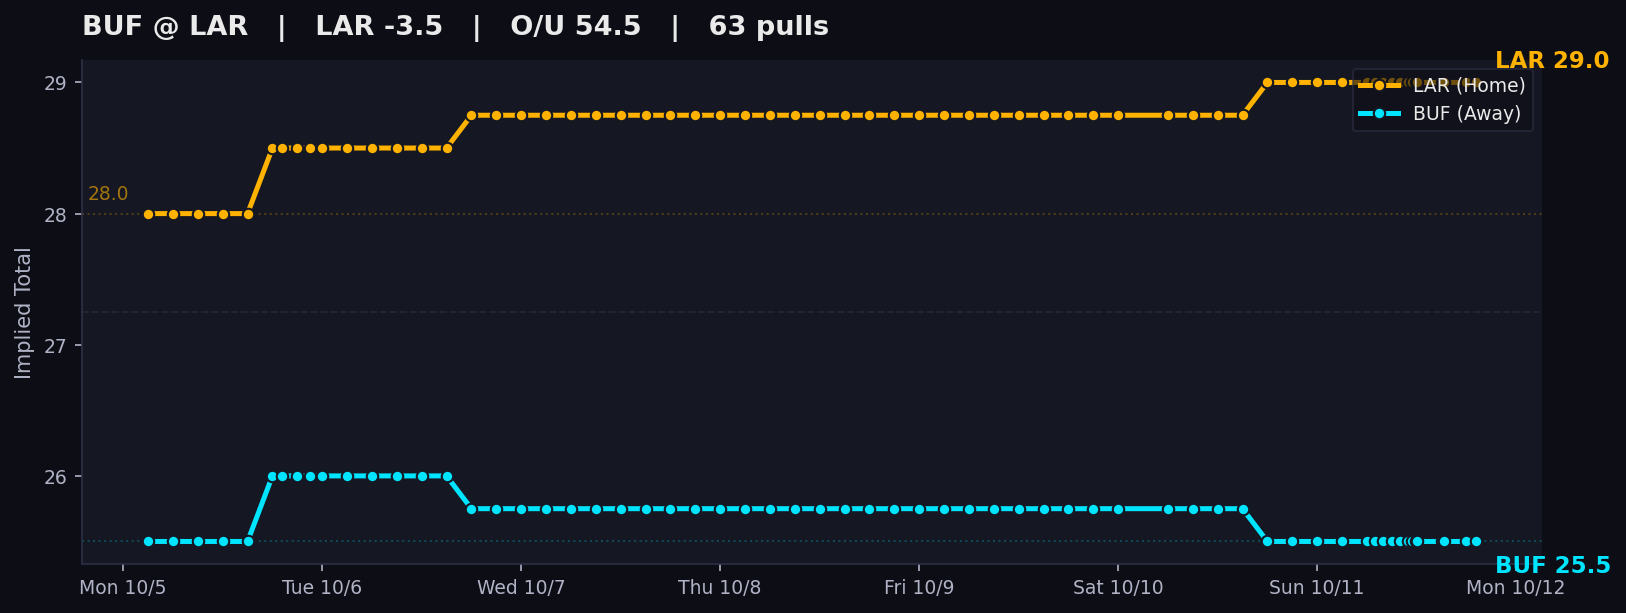
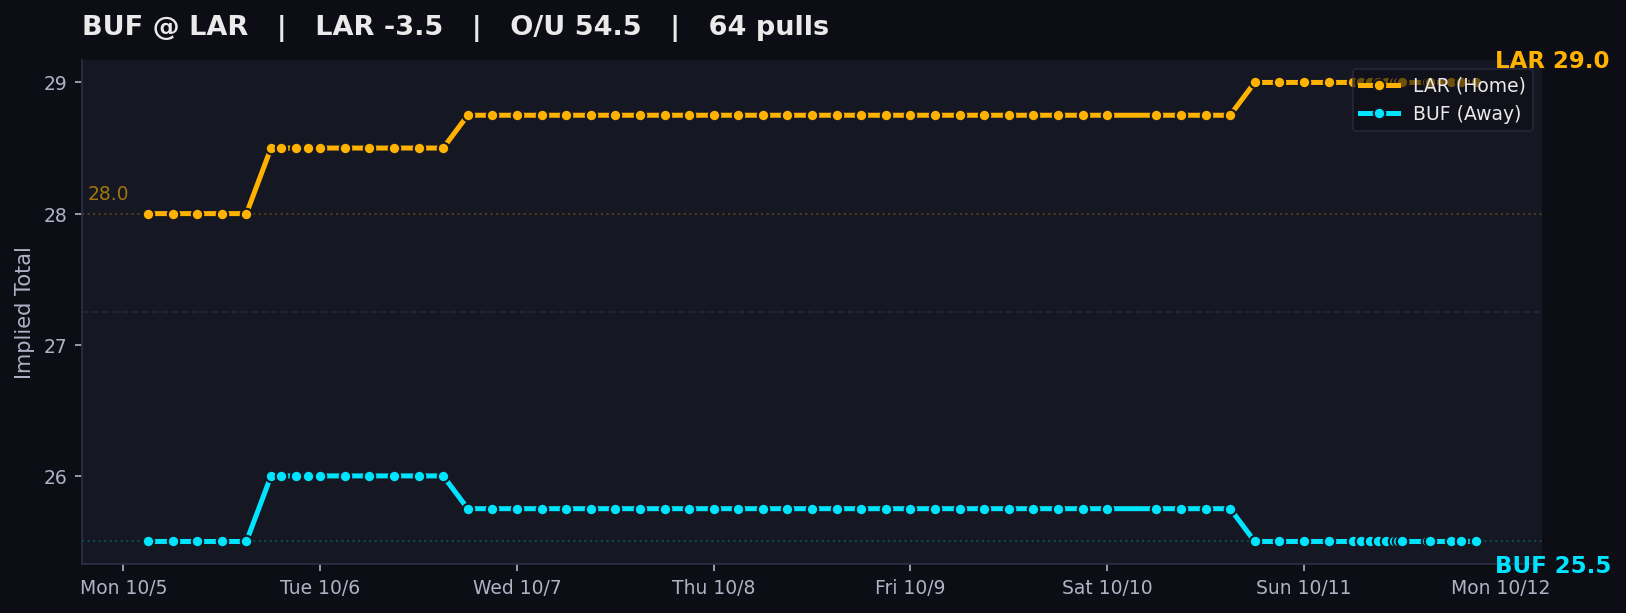
auto: local tracker sync

diff --git a/charts/index.html b/charts/index.html
@@ -311,7 +311,7 @@
     </div>
     <p class='sub'>
       DraftKings main lines &middot; Pinnacle cross-check &middot; Updated by the local Mac tracker<br>
-      Page rendered Sun Oct 11, 2026 7:10 PM CDT &middot; 1077 valid chart dots &middot; 1176 total pull attempts
+      Page rendered Sun Oct 11, 2026 9:00 PM CDT &middot; 1078 valid chart dots &middot; 1178 total pull attempts
       <span class='legend-box'>
         <span class='dot-teal'>● Away implied total</span>
         <span class='dot-amber'>● Home implied total</span>
@@ -324,9 +324,9 @@
     </details>
   </header>
 
-  <div id='feed-banner' class='alert-banner healthy' data-banner-kind='healthy' data-feed-ts='2026-10-12T00:10:00.872640+00:00' data-feed-ts-label='Sun Oct 11, 7:10 PM CDT'>
+  <div id='feed-banner' class='alert-banner healthy' data-banner-kind='healthy' data-feed-ts='2026-10-12T02:00:01.978811+00:00' data-feed-ts-label='Sun Oct 11, 9:00 PM CDT'>
             <span class='status-dot'></span>
-            <b>Feed Healthy:</b> All 2 open markets updated. 13 games have started and is showing its final verified pregame line. Board age based on oldest open market: <span id='feed-time'>Sun Oct 11, 7:10 PM CDT</span> (<span id='feed-age-dynamic'>just now</span>).
+            <b>Feed Healthy:</b> All 1 open markets updated. 14 games have started and is showing its final verified pregame line. Board age based on oldest open market: <span id='feed-time'>Sun Oct 11, 9:00 PM CDT</span> (<span id='feed-age-dynamic'>just now</span>).
         </div>
 
   <nav class='filter-bar' aria-label='Filter games by slate'>
@@ -396,7 +396,7 @@
                 <div><span>Last valid pull</span><strong>Thu 6:00 PM CT</strong></div>
                 <div><span>Chart dots</span><strong>69</strong></div>
             </div>
-                    <img class='expanded-chart' src='TB_DAL.png?v=1791763814' alt='TB at DAL line movement chart'>
+                    <img class='expanded-chart' src='TB_DAL.png?v=1791770418' alt='TB at DAL line movement chart'>
                     <p class='movement-note'>Total 47.5 → 49.5</p>
                 </div>
             </td>
@@ -437,7 +437,7 @@
                 <div><span>Last valid pull</span><strong>8:00 AM CT</strong></div>
                 <div><span>Chart dots</span><strong>71</strong></div>
             </div>
-                    <img class='expanded-chart' src='PHI_JAX.png?v=1791763814' alt='PHI at JAX line movement chart'>
+                    <img class='expanded-chart' src='PHI_JAX.png?v=1791770418' alt='PHI at JAX line movement chart'>
                     <p class='movement-note'>Spread JAX -3.0 → -7.5; Total 44.5 → 41.5</p>
                 </div>
             </td>
@@ -478,7 +478,7 @@
                 <div><span>Last valid pull</span><strong>12:00 PM CT</strong></div>
                 <div><span>Chart dots</span><strong>75</strong></div>
             </div>
-                    <img class='expanded-chart' src='CHI_GB.png?v=1791763814' alt='CHI at GB line movement chart'>
+                    <img class='expanded-chart' src='CHI_GB.png?v=1791770418' alt='CHI at GB line movement chart'>
                     <p class='movement-note'>Spread CHI +2.5 → -1.5; Total 45.5 → 46.5</p>
                 </div>
             </td>
@@ -513,7 +513,7 @@
                 <div><span>Last valid pull</span><strong>12:00 PM CT</strong></div>
                 <div><span>Chart dots</span><strong>64</strong></div>
             </div>
-                    <img class='expanded-chart' src='IND_PIT.png?v=1791763814' alt='IND at PIT line movement chart'>
+                    <img class='expanded-chart' src='IND_PIT.png?v=1791770418' alt='IND at PIT line movement chart'>
                     <p class='movement-note'>Spread PIT -2.5 → -3.0; Total 44.5 → 41.5</p>
                 </div>
             </td>
@@ -548,7 +548,7 @@
                 <div><span>Last valid pull</span><strong>12:00 PM CT</strong></div>
                 <div><span>Chart dots</span><strong>73</strong></div>
             </div>
-                    <img class='expanded-chart' src='MIN_NO.png?v=1791763814' alt='MIN at NO line movement chart'>
+                    <img class='expanded-chart' src='MIN_NO.png?v=1791770418' alt='MIN at NO line movement chart'>
                     <p class='movement-note'>Total 44.5 → 41.5</p>
                 </div>
             </td>
@@ -583,7 +583,7 @@
                 <div><span>Last valid pull</span><strong>12:00 PM CT</strong></div>
                 <div><span>Chart dots</span><strong>68</strong></div>
             </div>
-                    <img class='expanded-chart' src='NYG_WAS.png?v=1791763814' alt='NYG at WAS line movement chart'>
+                    <img class='expanded-chart' src='NYG_WAS.png?v=1791770418' alt='NYG at WAS line movement chart'>
                     <p class='movement-note'>Spread WAS -2.5 → -3.5; Total 43.5 → 41.5</p>
                 </div>
             </td>
@@ -618,7 +618,7 @@
                 <div><span>Last valid pull</span><strong>12:00 PM CT</strong></div>
                 <div><span>Chart dots</span><strong>75</strong></div>
             </div>
-                    <img class='expanded-chart' src='CIN_MIA.png?v=1791763814' alt='CIN at MIA line movement chart'>
+                    <img class='expanded-chart' src='CIN_MIA.png?v=1791770418' alt='CIN at MIA line movement chart'>
                     <p class='movement-note'>Spread CIN -8.5 → -7.0; Total 46.5 → 44.5</p>
                 </div>
             </td>
@@ -653,7 +653,7 @@
                 <div><span>Last valid pull</span><strong>12:00 PM CT</strong></div>
                 <div><span>Chart dots</span><strong>75</strong></div>
             </div>
-                    <img class='expanded-chart' src='HOU_TEN.png?v=1791763814' alt='HOU at TEN line movement chart'>
+                    <img class='expanded-chart' src='HOU_TEN.png?v=1791770418' alt='HOU at TEN line movement chart'>
                     <p class='movement-note'>Total 39.5 → 37.5</p>
                 </div>
             </td>
@@ -688,7 +688,7 @@
                 <div><span>Last valid pull</span><strong>12:00 PM CT</strong></div>
                 <div><span>Chart dots</span><strong>64</strong></div>
             </div>
-                    <img class='expanded-chart' src='CLE_NYJ.png?v=1791763814' alt='CLE at NYJ line movement chart'>
+                    <img class='expanded-chart' src='CLE_NYJ.png?v=1791770418' alt='CLE at NYJ line movement chart'>
                     <p class='movement-note'>Spread NYJ -1.5 → -2.5; Total 39.5 → 38.5</p>
                 </div>
             </td>
@@ -723,7 +723,7 @@
                 <div><span>Last valid pull</span><strong>12:00 PM CT</strong></div>
                 <div><span>Chart dots</span><strong>75</strong></div>
             </div>
-                    <img class='expanded-chart' src='LVR_NE.png?v=1791763814' alt='LVR at NE line movement chart'>
+                    <img class='expanded-chart' src='LVR_NE.png?v=1791770418' alt='LVR at NE line movement chart'>
                     <p class='movement-note'>Total 44.5 → 45.5</p>
                 </div>
             </td>
@@ -764,7 +764,7 @@
                 <div><span>Last valid pull</span><strong>3:20 PM CT</strong></div>
                 <div><span>Chart dots</span><strong>77</strong></div>
             </div>
-                    <img class='expanded-chart' src='DET_ARI.png?v=1791763814' alt='DET at ARI line movement chart'>
+                    <img class='expanded-chart' src='DET_ARI.png?v=1791770418' alt='DET at ARI line movement chart'>
                     <p class='movement-note'>Total 52.5 → 55.5</p>
                 </div>
             </td>
@@ -799,7 +799,7 @@
                 <div><span>Last valid pull</span><strong>3:20 PM CT</strong></div>
                 <div><span>Chart dots</span><strong>79</strong></div>
             </div>
-                    <img class='expanded-chart' src='SF_SEA.png?v=1791763814' alt='SF at SEA line movement chart'>
+                    <img class='expanded-chart' src='SF_SEA.png?v=1791770418' alt='SF at SEA line movement chart'>
                     <p class='movement-note'>Total 47.5 → 45.5</p>
                 </div>
             </td>
@@ -834,7 +834,7 @@
                 <div><span>Last valid pull</span><strong>3:00 PM CT</strong></div>
                 <div><span>Chart dots</span><strong>73</strong></div>
             </div>
-                    <img class='expanded-chart' src='DEN_LAC.png?v=1791763814' alt='DEN at LAC line movement chart'>
+                    <img class='expanded-chart' src='DEN_LAC.png?v=1791770418' alt='DEN at LAC line movement chart'>
                     <p class='movement-note'>Spread DEN -2.5 → -3.5; Total 43.5 → 42.5</p>
                 </div>
             </td>
@@ -844,7 +844,7 @@
                     <span class='sep-label'>SUNDAY NIGHT FOOTBALL</span>
                     <span class='sep-dash'>────</span>
                 </td>
-            </tr><tr class='game-row ' data-slate='SNF' data-game='BAL_ATL' data-toggle-game='BAL_ATL' tabindex='0' role='button' aria-expanded='false' aria-controls='desktop-panel-BAL_ATL'>
+            </tr><tr class='game-row closed-game' data-slate='SNF' data-game='BAL_ATL' data-toggle-game='BAL_ATL' tabindex='0' role='button' aria-expanded='false' aria-controls='desktop-panel-BAL_ATL'>
             <td class='mu'>BAL @ <b>ATL</b><span class='view-chart'>View chart <span class='chevron'>⌄</span></span></td>
             <td>BAL -6.0</td>
             <td><b>ATL -3.5</b></td>
@@ -855,7 +855,7 @@
             <td class='it-away'>BAL 20.0</td>
             <td class='it-home'>ATL 23.5</td>
             <td class='reason' title='Spread ATL +6.0 → -3.5; Total 49.5 → 43.5'>Spread ATL +6.0 → -3.5; Total 49.5 → 43.5</td>
-            <td style='text-align:center;'><span class='pill-fresh'>7:10 PM CT</span></td>
+            <td style='text-align:center;'><span class='pill-closed' title='Pregame market closed at kickoff. Showing the final verified pregame line from 7:10 PM CT.'>Started Sun 7:23 PM CT</span></td>
             <td class='snaps'>76</td>
         </tr>
         <tr id='desktop-panel-BAL_ATL' class='chart-detail-row' data-slate='SNF' data-game-panel='BAL_ATL' hidden>
@@ -875,7 +875,7 @@
                 <div><span>Last valid pull</span><strong>7:10 PM CT</strong></div>
                 <div><span>Chart dots</span><strong>76</strong></div>
             </div>
-                    <img class='expanded-chart' src='BAL_ATL.png?v=1791763814' alt='BAL at ATL line movement chart'>
+                    <img class='expanded-chart' src='BAL_ATL.png?v=1791770418' alt='BAL at ATL line movement chart'>
                     <p class='movement-note'>Spread ATL +6.0 → -3.5; Total 49.5 → 43.5</p>
                 </div>
             </td>
@@ -896,8 +896,8 @@
             <td class='it-away'>BUF 25.5</td>
             <td class='it-home'>LAR 29.0</td>
             <td class='reason' title='Spread LAR -2.5 → -3.5; Total 53.5 → 54.5'>Spread LAR -2.5 → -3.5; Total 53.5 → 54.5</td>
-            <td style='text-align:center;'><span class='pill-fresh'>7:10 PM CT</span></td>
-            <td class='snaps'>63</td>
+            <td style='text-align:center;'><span class='pill-fresh'>9:00 PM CT</span></td>
+            <td class='snaps'>64</td>
         </tr>
         <tr id='desktop-panel-BUF_LAR' class='chart-detail-row' data-slate='MNF' data-game-panel='BUF_LAR' hidden>
             <td colspan='12'>
@@ -913,10 +913,10 @@
                 <div><span>Current total</span><strong>54.5</strong></div>
                 <div><span>Away implied</span><strong class='it-away'>BUF 25.5</strong></div>
                 <div><span>Home implied</span><strong class='it-home'>LAR 29.0</strong></div>
-                <div><span>Last valid pull</span><strong>7:10 PM CT</strong></div>
-                <div><span>Chart dots</span><strong>63</strong></div>
+                <div><span>Last valid pull</span><strong>9:00 PM CT</strong></div>
+                <div><span>Chart dots</span><strong>64</strong></div>
             </div>
-                    <img class='expanded-chart' src='BUF_LAR.png?v=1791763814' alt='BUF at LAR line movement chart'>
+                    <img class='expanded-chart' src='BUF_LAR.png?v=1791770418' alt='BUF at LAR line movement chart'>
                     <p class='movement-note'>Spread LAR -2.5 → -3.5; Total 53.5 → 54.5</p>
                 </div>
             </td>
@@ -951,7 +951,7 @@
                 <div><span>Last valid pull</span><strong>Thu 6:00 PM CT</strong></div>
                 <div><span>Chart dots</span><strong>69</strong></div>
             </div>
-                <img class='expanded-chart' src='TB_DAL.png?v=1791763814' alt='TB at DAL line movement chart'>
+                <img class='expanded-chart' src='TB_DAL.png?v=1791770418' alt='TB at DAL line movement chart'>
                 <p class='pull-note'><span class='pull-dot'></span> Every dot is a valid completed pull · 69 chart dots</p>
             </div>
         </article><article class='mobile-game-card closed-game' data-slate='OTHER_PRIMETIME' data-game='PHI_JAX'>
@@ -978,7 +978,7 @@
                 <div><span>Last valid pull</span><strong>8:00 AM CT</strong></div>
                 <div><span>Chart dots</span><strong>71</strong></div>
             </div>
-                <img class='expanded-chart' src='PHI_JAX.png?v=1791763814' alt='PHI at JAX line movement chart'>
+                <img class='expanded-chart' src='PHI_JAX.png?v=1791770418' alt='PHI at JAX line movement chart'>
                 <p class='pull-note'><span class='pull-dot'></span> Every dot is a valid completed pull · 71 chart dots</p>
             </div>
         </article><article class='mobile-game-card closed-game' data-slate='SUN_EARLY' data-game='CHI_GB'>
@@ -1005,7 +1005,7 @@
                 <div><span>Last valid pull</span><strong>12:00 PM CT</strong></div>
                 <div><span>Chart dots</span><strong>75</strong></div>
             </div>
-                <img class='expanded-chart' src='CHI_GB.png?v=1791763814' alt='CHI at GB line movement chart'>
+                <img class='expanded-chart' src='CHI_GB.png?v=1791770418' alt='CHI at GB line movement chart'>
                 <p class='pull-note'><span class='pull-dot'></span> Every dot is a valid completed pull · 75 chart dots</p>
             </div>
         </article><article class='mobile-game-card closed-game' data-slate='SUN_EARLY' data-game='IND_PIT'>
@@ -1032,7 +1032,7 @@
                 <div><span>Last valid pull</span><strong>12:00 PM CT</strong></div>
                 <div><span>Chart dots</span><strong>64</strong></div>
             </div>
-                <img class='expanded-chart' src='IND_PIT.png?v=1791763814' alt='IND at PIT line movement chart'>
+                <img class='expanded-chart' src='IND_PIT.png?v=1791770418' alt='IND at PIT line movement chart'>
                 <p class='pull-note'><span class='pull-dot'></span> Every dot is a valid completed pull · 64 chart dots</p>
             </div>
         </article><article class='mobile-game-card closed-game' data-slate='SUN_EARLY' data-game='MIN_NO'>
@@ -1059,7 +1059,7 @@
                 <div><span>Last valid pull</span><strong>12:00 PM CT</strong></div>
                 <div><span>Chart dots</span><strong>73</strong></div>
             </div>
-                <img class='expanded-chart' src='MIN_NO.png?v=1791763814' alt='MIN at NO line movement chart'>
+                <img class='expanded-chart' src='MIN_NO.png?v=1791770418' alt='MIN at NO line movement chart'>
                 <p class='pull-note'><span class='pull-dot'></span> Every dot is a valid completed pull · 73 chart dots</p>
             </div>
         </article><article class='mobile-game-card closed-game' data-slate='SUN_EARLY' data-game='NYG_WAS'>
@@ -1086,7 +1086,7 @@
                 <div><span>Last valid pull</span><strong>12:00 PM CT</strong></div>
                 <div><span>Chart dots</span><strong>68</strong></div>
             </div>
-                <img class='expanded-chart' src='NYG_WAS.png?v=1791763814' alt='NYG at WAS line movement chart'>
+                <img class='expanded-chart' src='NYG_WAS.png?v=1791770418' alt='NYG at WAS line movement chart'>
                 <p class='pull-note'><span class='pull-dot'></span> Every dot is a valid completed pull · 68 chart dots</p>
             </div>
         </article><article class='mobile-game-card closed-game' data-slate='SUN_EARLY' data-game='CIN_MIA'>
@@ -1113,7 +1113,7 @@
                 <div><span>Last valid pull</span><strong>12:00 PM CT</strong></div>
                 <div><span>Chart dots</span><strong>75</strong></div>
             </div>
-                <img class='expanded-chart' src='CIN_MIA.png?v=1791763814' alt='CIN at MIA line movement chart'>
+                <img class='expanded-chart' src='CIN_MIA.png?v=1791770418' alt='CIN at MIA line movement chart'>
                 <p class='pull-note'><span class='pull-dot'></span> Every dot is a valid completed pull · 75 chart dots</p>
             </div>
         </article><article class='mobile-game-card closed-game' data-slate='SUN_EARLY' data-game='HOU_TEN'>
@@ -1140,7 +1140,7 @@
                 <div><span>Last valid pull</span><strong>12:00 PM CT</strong></div>
                 <div><span>Chart dots</span><strong>75</strong></div>
             </div>
-                <img class='expanded-chart' src='HOU_TEN.png?v=1791763814' alt='HOU at TEN line movement chart'>
+                <img class='expanded-chart' src='HOU_TEN.png?v=1791770418' alt='HOU at TEN line movement chart'>
                 <p class='pull-note'><span class='pull-dot'></span> Every dot is a valid completed pull · 75 chart dots</p>
             </div>
         </article><article class='mobile-game-card closed-game' data-slate='SUN_EARLY' data-game='CLE_NYJ'>
@@ -1167,7 +1167,7 @@
                 <div><span>Last valid pull</span><strong>12:00 PM CT</strong></div>
                 <div><span>Chart dots</span><strong>64</strong></div>
             </div>
-                <img class='expanded-chart' src='CLE_NYJ.png?v=1791763814' alt='CLE at NYJ line movement chart'>
+                <img class='expanded-chart' src='CLE_NYJ.png?v=1791770418' alt='CLE at NYJ line movement chart'>
                 <p class='pull-note'><span class='pull-dot'></span> Every dot is a valid completed pull · 64 chart dots</p>
             </div>
         </article><article class='mobile-game-card closed-game' data-slate='SUN_EARLY' data-game='LVR_NE'>
@@ -1194,7 +1194,7 @@
                 <div><span>Last valid pull</span><strong>12:00 PM CT</strong></div>
                 <div><span>Chart dots</span><strong>75</strong></div>
             </div>
-                <img class='expanded-chart' src='LVR_NE.png?v=1791763814' alt='LVR at NE line movement chart'>
+                <img class='expanded-chart' src='LVR_NE.png?v=1791770418' alt='LVR at NE line movement chart'>
                 <p class='pull-note'><span class='pull-dot'></span> Every dot is a valid completed pull · 75 chart dots</p>
             </div>
         </article><article class='mobile-game-card closed-game' data-slate='SUN_LATE' data-game='DET_ARI'>
@@ -1221,7 +1221,7 @@
                 <div><span>Last valid pull</span><strong>3:20 PM CT</strong></div>
                 <div><span>Chart dots</span><strong>77</strong></div>
             </div>
-                <img class='expanded-chart' src='DET_ARI.png?v=1791763814' alt='DET at ARI line movement chart'>
+                <img class='expanded-chart' src='DET_ARI.png?v=1791770418' alt='DET at ARI line movement chart'>
                 <p class='pull-note'><span class='pull-dot'></span> Every dot is a valid completed pull · 77 chart dots</p>
             </div>
         </article><article class='mobile-game-card closed-game' data-slate='SUN_LATE' data-game='SF_SEA'>
@@ -1248,7 +1248,7 @@
                 <div><span>Last valid pull</span><strong>3:20 PM CT</strong></div>
                 <div><span>Chart dots</span><strong>79</strong></div>
             </div>
-                <img class='expanded-chart' src='SF_SEA.png?v=1791763814' alt='SF at SEA line movement chart'>
+                <img class='expanded-chart' src='SF_SEA.png?v=1791770418' alt='SF at SEA line movement chart'>
                 <p class='pull-note'><span class='pull-dot'></span> Every dot is a valid completed pull · 79 chart dots</p>
             </div>
         </article><article class='mobile-game-card closed-game' data-slate='SUN_LATE' data-game='DEN_LAC'>
@@ -1275,10 +1275,10 @@
                 <div><span>Last valid pull</span><strong>3:00 PM CT</strong></div>
                 <div><span>Chart dots</span><strong>73</strong></div>
             </div>
-                <img class='expanded-chart' src='DEN_LAC.png?v=1791763814' alt='DEN at LAC line movement chart'>
+                <img class='expanded-chart' src='DEN_LAC.png?v=1791770418' alt='DEN at LAC line movement chart'>
                 <p class='pull-note'><span class='pull-dot'></span> Every dot is a valid completed pull · 73 chart dots</p>
             </div>
-        </article><article class='mobile-game-card ' data-slate='SNF' data-game='BAL_ATL'>
+        </article><article class='mobile-game-card closed-game' data-slate='SNF' data-game='BAL_ATL'>
             <button class='mobile-game-summary' type='button' data-toggle-game='BAL_ATL' aria-expanded='false' aria-controls='mobile-panel-BAL_ATL'>
                 <span class='mobile-game-main'>
                     <span class='mobile-slate'>SUNDAY NIGHT FOOTBALL</span>
@@ -1302,7 +1302,7 @@
                 <div><span>Last valid pull</span><strong>7:10 PM CT</strong></div>
                 <div><span>Chart dots</span><strong>76</strong></div>
             </div>
-                <img class='expanded-chart' src='BAL_ATL.png?v=1791763814' alt='BAL at ATL line movement chart'>
+                <img class='expanded-chart' src='BAL_ATL.png?v=1791770418' alt='BAL at ATL line movement chart'>
                 <p class='pull-note'><span class='pull-dot'></span> Every dot is a valid completed pull · 76 chart dots</p>
             </div>
         </article><article class='mobile-game-card ' data-slate='MNF' data-game='BUF_LAR'>
@@ -1326,11 +1326,11 @@
                 <div><span>Current total</span><strong>54.5</strong></div>
                 <div><span>Away implied</span><strong class='it-away'>BUF 25.5</strong></div>
                 <div><span>Home implied</span><strong class='it-home'>LAR 29.0</strong></div>
-                <div><span>Last valid pull</span><strong>7:10 PM CT</strong></div>
-                <div><span>Chart dots</span><strong>63</strong></div>
+                <div><span>Last valid pull</span><strong>9:00 PM CT</strong></div>
+                <div><span>Chart dots</span><strong>64</strong></div>
             </div>
-                <img class='expanded-chart' src='BUF_LAR.png?v=1791763814' alt='BUF at LAR line movement chart'>
-                <p class='pull-note'><span class='pull-dot'></span> Every dot is a valid completed pull · 63 chart dots</p>
+                <img class='expanded-chart' src='BUF_LAR.png?v=1791770418' alt='BUF at LAR line movement chart'>
+                <p class='pull-note'><span class='pull-dot'></span> Every dot is a valid completed pull · 64 chart dots</p>
             </div>
         </article>
   </section>
